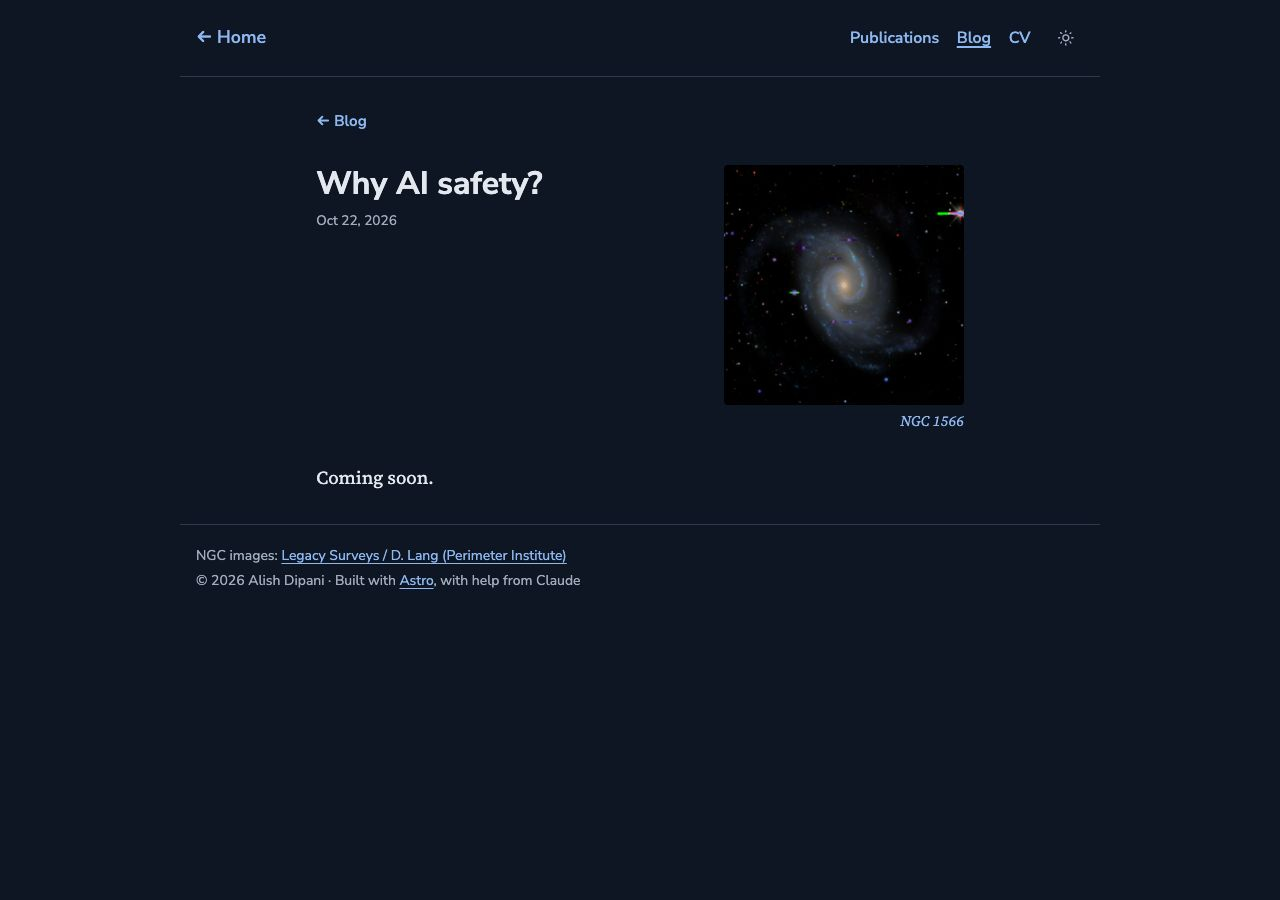
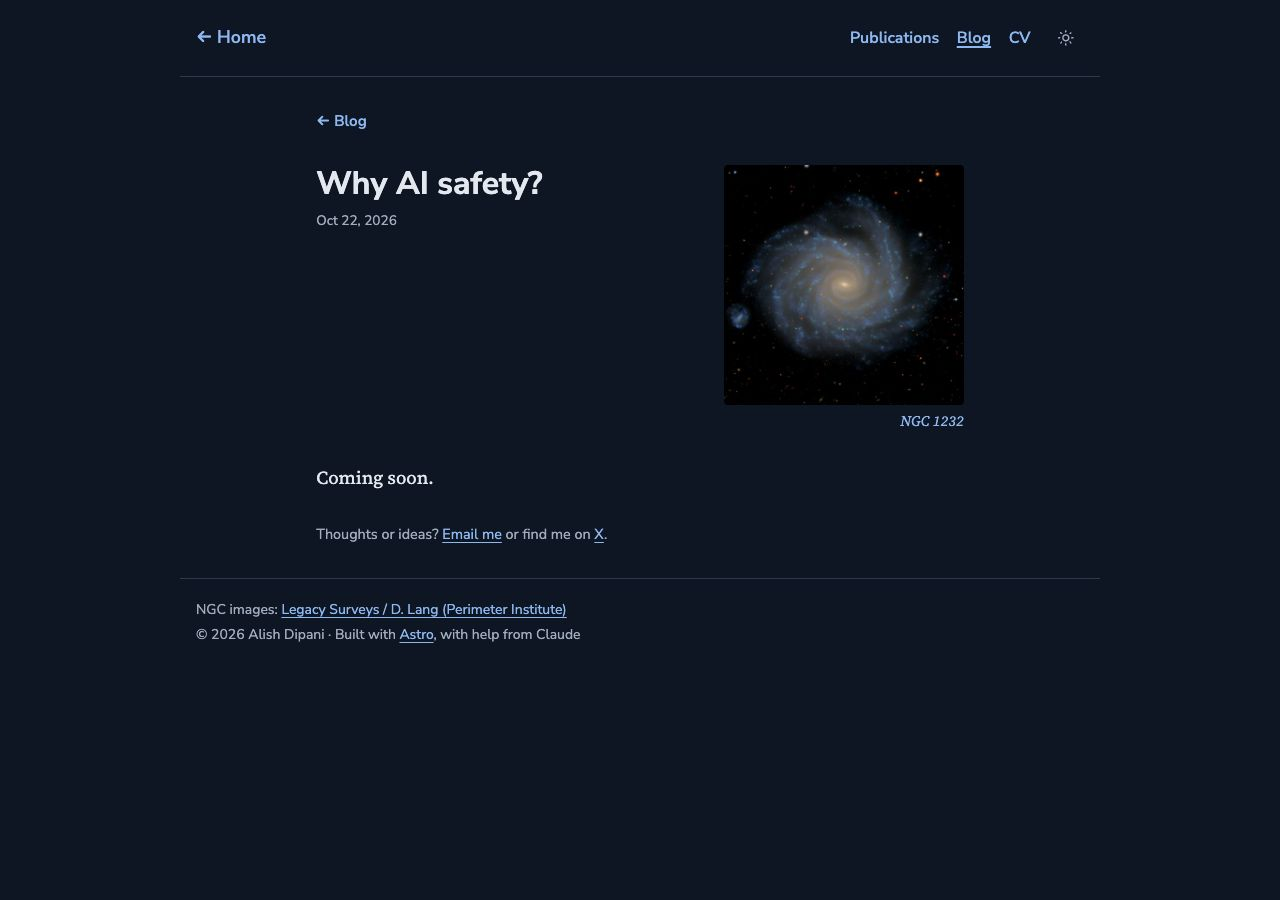
Why AI safety? post: NGC 1232 image; TODO.md cleanup; inline code wraps on phones
- The post's NGC 1566 image had star-bleed artifacts; replaced with NGC 1232 (clean
  at full size); NGC 1566 is free again in ngc-list.json and its files are removed.
- TODO.md: launch-checklist cleanup and the Google Analytics open decision.
- Long inline code no longer widens a page on phones (the scatter-plot post).

Changed region(s): [[0.1562, 0.5911, 0.4688, 0.7156], [0.5625, 0.2178, 0.75, 0.4044], [0.7188, 0.2178, 0.75, 0.2489]]

diff --git a/src/styles/global.css b/src/styles/global.css
@@ -196,7 +196,7 @@ time, .meta { font-family: var(--font-ui); color: var(--muted); font-size: 0.9re
 /* Code (Shiki dual themes: light by default, dark via data-theme or the system setting) */
 pre, code { font-family: var(--font-mono); }
 code { font-size: 0.88em; }
-:not(pre) > code { background: var(--surface); padding: 0.1em 0.3em; border-radius: 3px; }
+:not(pre) > code { background: var(--surface); padding: 0.1em 0.3em; border-radius: 3px; overflow-wrap: anywhere; } /* long inline snippets must not widen the page on phones */
 pre {
   overflow-x: auto;
   padding: 0.9rem 1rem;

diff --git a/TODO.md b/TODO.md
@@ -6,23 +6,19 @@ instead of showing placeholders, so nothing here is visible on the site until it
 ## Content
 - **Internships line on Home:** update or remove "Actively looking for research internships in Summer and/or Fall 2027."
   → `internships` constant in `src/pages/index.astro`
-- **Write the "Why AI safety?" post** (listed, says "Coming soon" until then). → `src/content/blog/why-ai-safety.mdx`
-- **News items:** date, text, optional link; Home shows the latest 5 and hides the section while empty.
-  → `src/data/news.yml`
-- **Publication summaries:** one line per publication (`summary`), optional. All entries that have a
-  link online now have one (Task 7); the others stay without links by Alish's choice.
-  → `src/data/publications.bib` (fields documented at its top)
-- **Current CV PDF:** add the file and point the CV links at it (still the Aug 2024 Google Drive PDF).
-  → `public/` + `cvPdf` in `src/pages/cv.astro` (Home no longer links the CV; it's in the header nav)
-- **CV page content** beyond the PDF link, if wanted. → `src/pages/cv.astro`
-- **VSS 2026 poster link:** not online yet; add `url` to `dipani2026categoryvss` in `src/data/publications.bib`
-  once VSS posts it (or once the abstract is in Journal of Vision).
 
 ## Setup
-- **Google Analytics:** Alish will set up a new ID later (don't reuse the old one).
-- **Online preview auto-update:** the repo `alishdipani/website-preview` exists, its Pages source is `gh-pages`
-  and it serves a manual snapshot. Still missing: a write deploy key on website-preview and the secret
-  `PREVIEW_DEPLOY_KEY` in alishdipani.github.io, so `.github/workflows/preview.yml` can publish on every push to v2.
+- **Google Analytics / analytics (needs Alish's decision, then a short task for Claude Code):** nothing is wired in yet.
+  GA4 with consent denied by default and no banner ("option B") would likely leave the reports empty on a small
+  site: Google only reports or models declined visits with at least 1,000 events a day from declined visitors for
+  7 days and at least 1,000 daily consented users (https://support.google.com/analytics/answer/11161109).
+  Options left: A, GA4 with cookies on and no banner; C, GA4 with a consent banner; or a cookie-free tool (Umami
+  Cloud or GoatCounter). Alish picks; then he (or Claude in Chrome) creates a NEW GA4 property and web data stream
+  (never reuse the old ID), Google signals off, data retention 14 months, links Search Console, and sends the
+  Measurement ID. Planned site work once chosen: the tag loads only on the production hostname (never the preview
+  or localhost); opt-out for Alish's own visits via a `?notrack` flag kept in localStorage; events for scroll depth
+  (25/50/75/100), blog section reached, CV opened, email copied and publication link clicks; optionally a one-line
+  privacy note (Alish writes the wording).
 
 ## Optional
 - **NGC check pass:** stopped at 1,130 of 3,868 candidates (roughly NGC 1–1900); resume with
